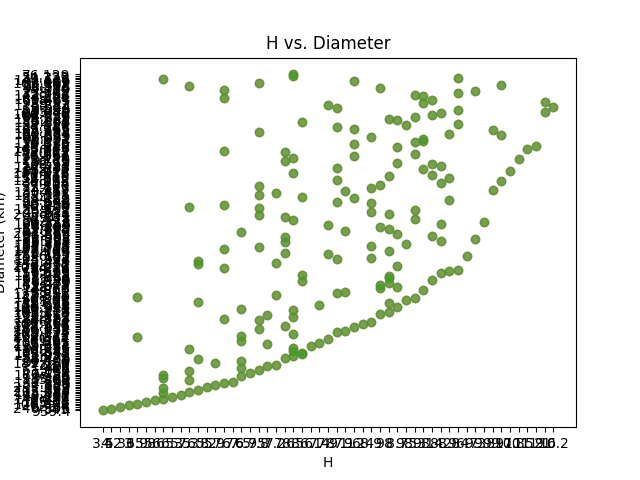
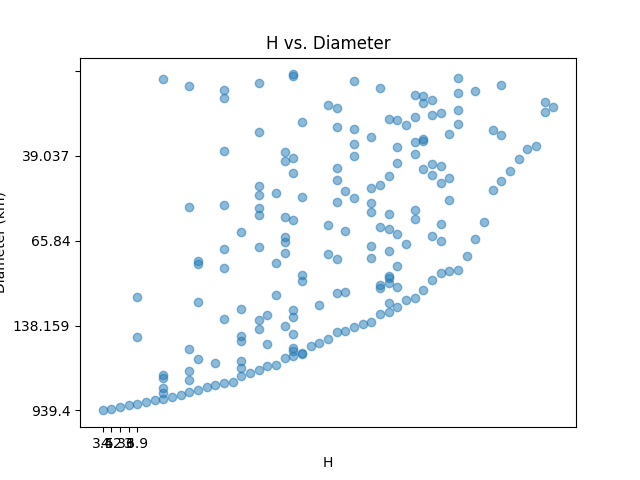
Trying to change axises

diff --git a/asteroid_data.py b/asteroid_data.py
@@ -5,6 +5,8 @@ import requests
 import os
 import csv
 import matplotlib.pyplot as plt
+import numpy as np
+
 app = Flask(__name__)
 
 def get_redis_client():
@@ -109,10 +111,12 @@ def image():
             for counter in range(len(json_data)): 
                 H.append(json_data[counter]['H'])
                 diameter.append(json_data[counter]['diameter'])
+            plt.xticks(np.arange(0,5,1))
+            plt.yticks(np.arange(0,300,50))  
             plt.scatter(H, diameter, alpha=0.5) 
             plt.xlabel('H') 
             plt.ylabel('Diameter (km)') 
-            plt.title('H vs. Diameter') 
+            plt.title('H vs. Diameter')
             plt.savefig('asteroid_graph.png')
             file_bytes = open('./asteroid_graph.png', 'rb').read()
             rd2.set('key', file_bytes)
